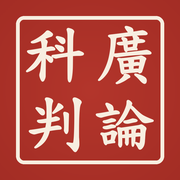
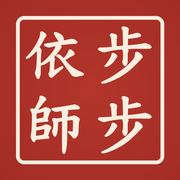
圖示改為「步步依師」四字印；換圖示時 service worker 版本跟著換

diff --git a/sw.js b/sw.js
@@ -1,5 +1,5 @@
-// 師父講解科判 service worker（由 師父科判網頁.py 產生，版本 0ee4b7ce93）
-const CACHE = "kepan-0ee4b7ce93";
+// 師父講解科判 service worker（由 師父科判網頁.py 產生，版本 09b45ff824）
+const CACHE = "kepan-09b45ff824";
 const SHELL = ["./", "index.html", "manifest.webmanifest", "icons/icon-192.png", "icons/icon-512.png",
                "icons/maskable-512.png", "icons/apple-touch-icon.png", "icons/favicon-32.png"];
 self.addEventListener("install", e => {
